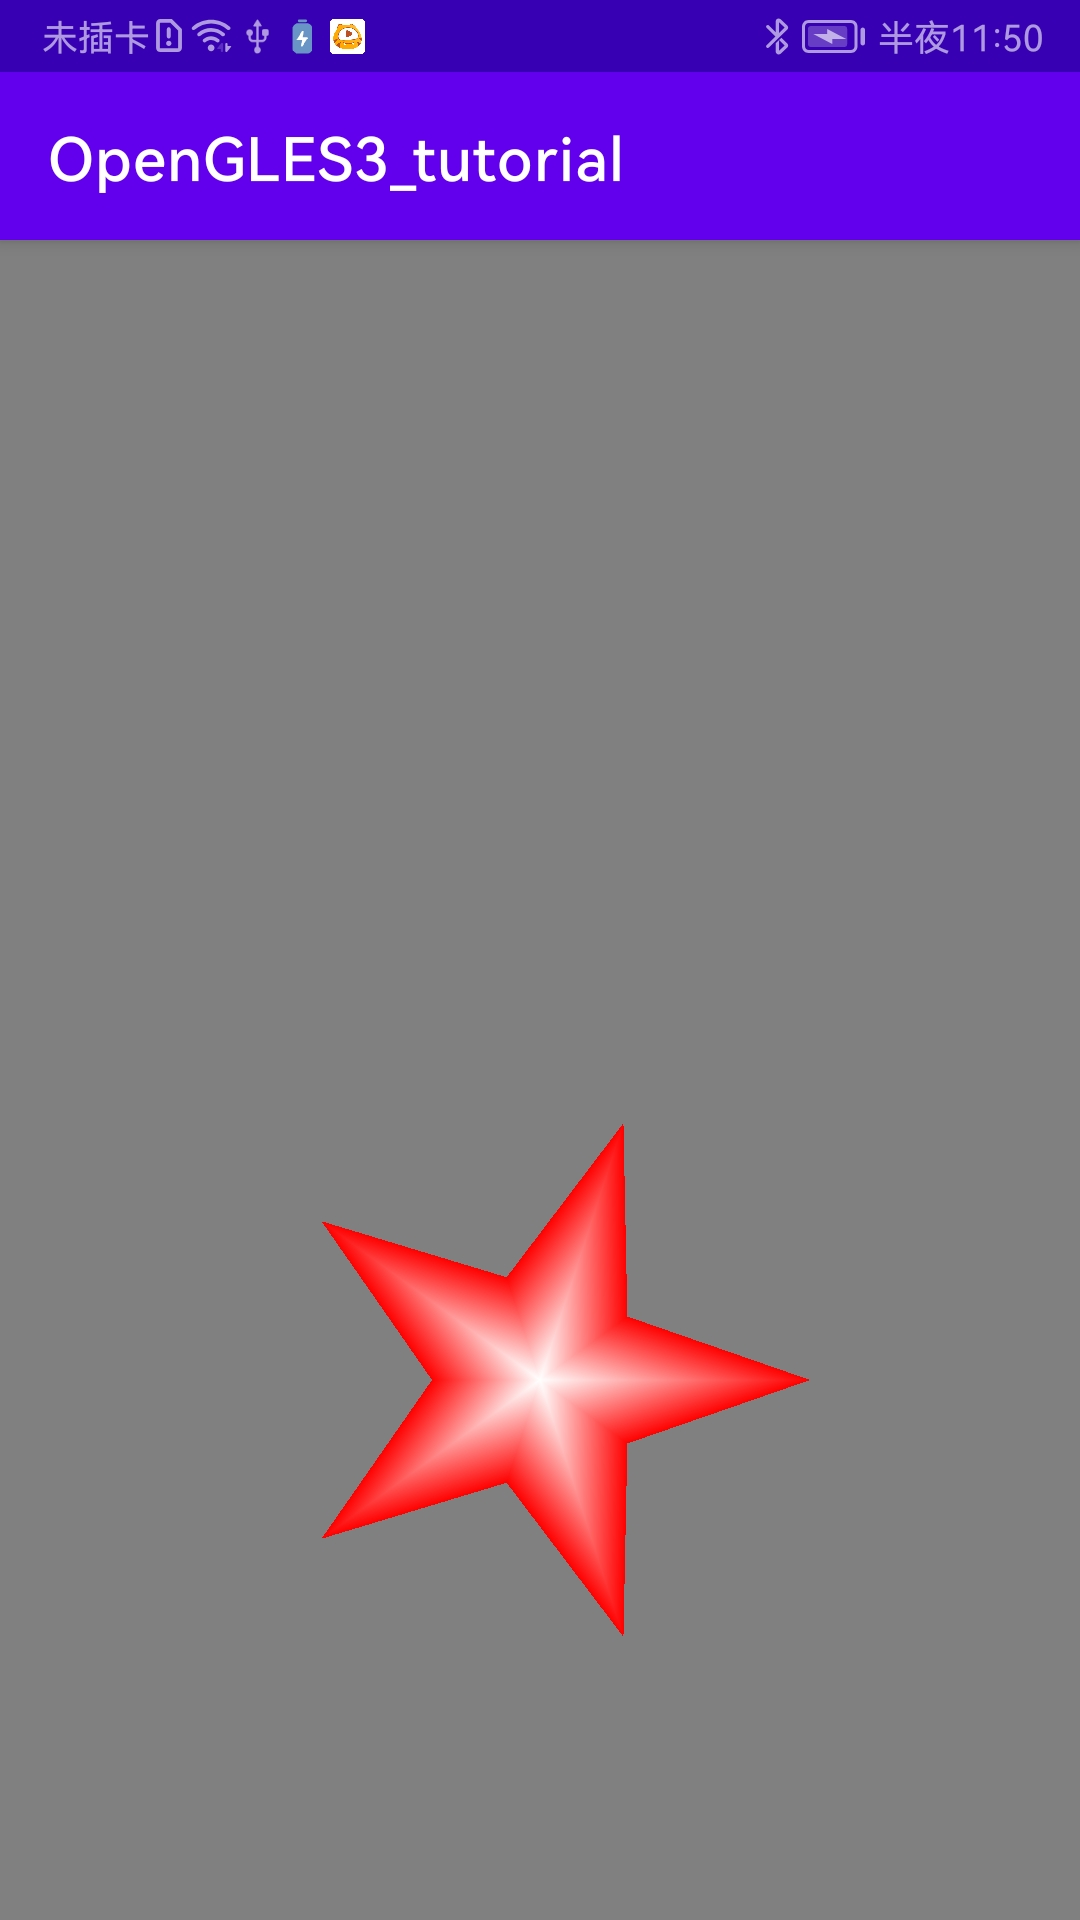
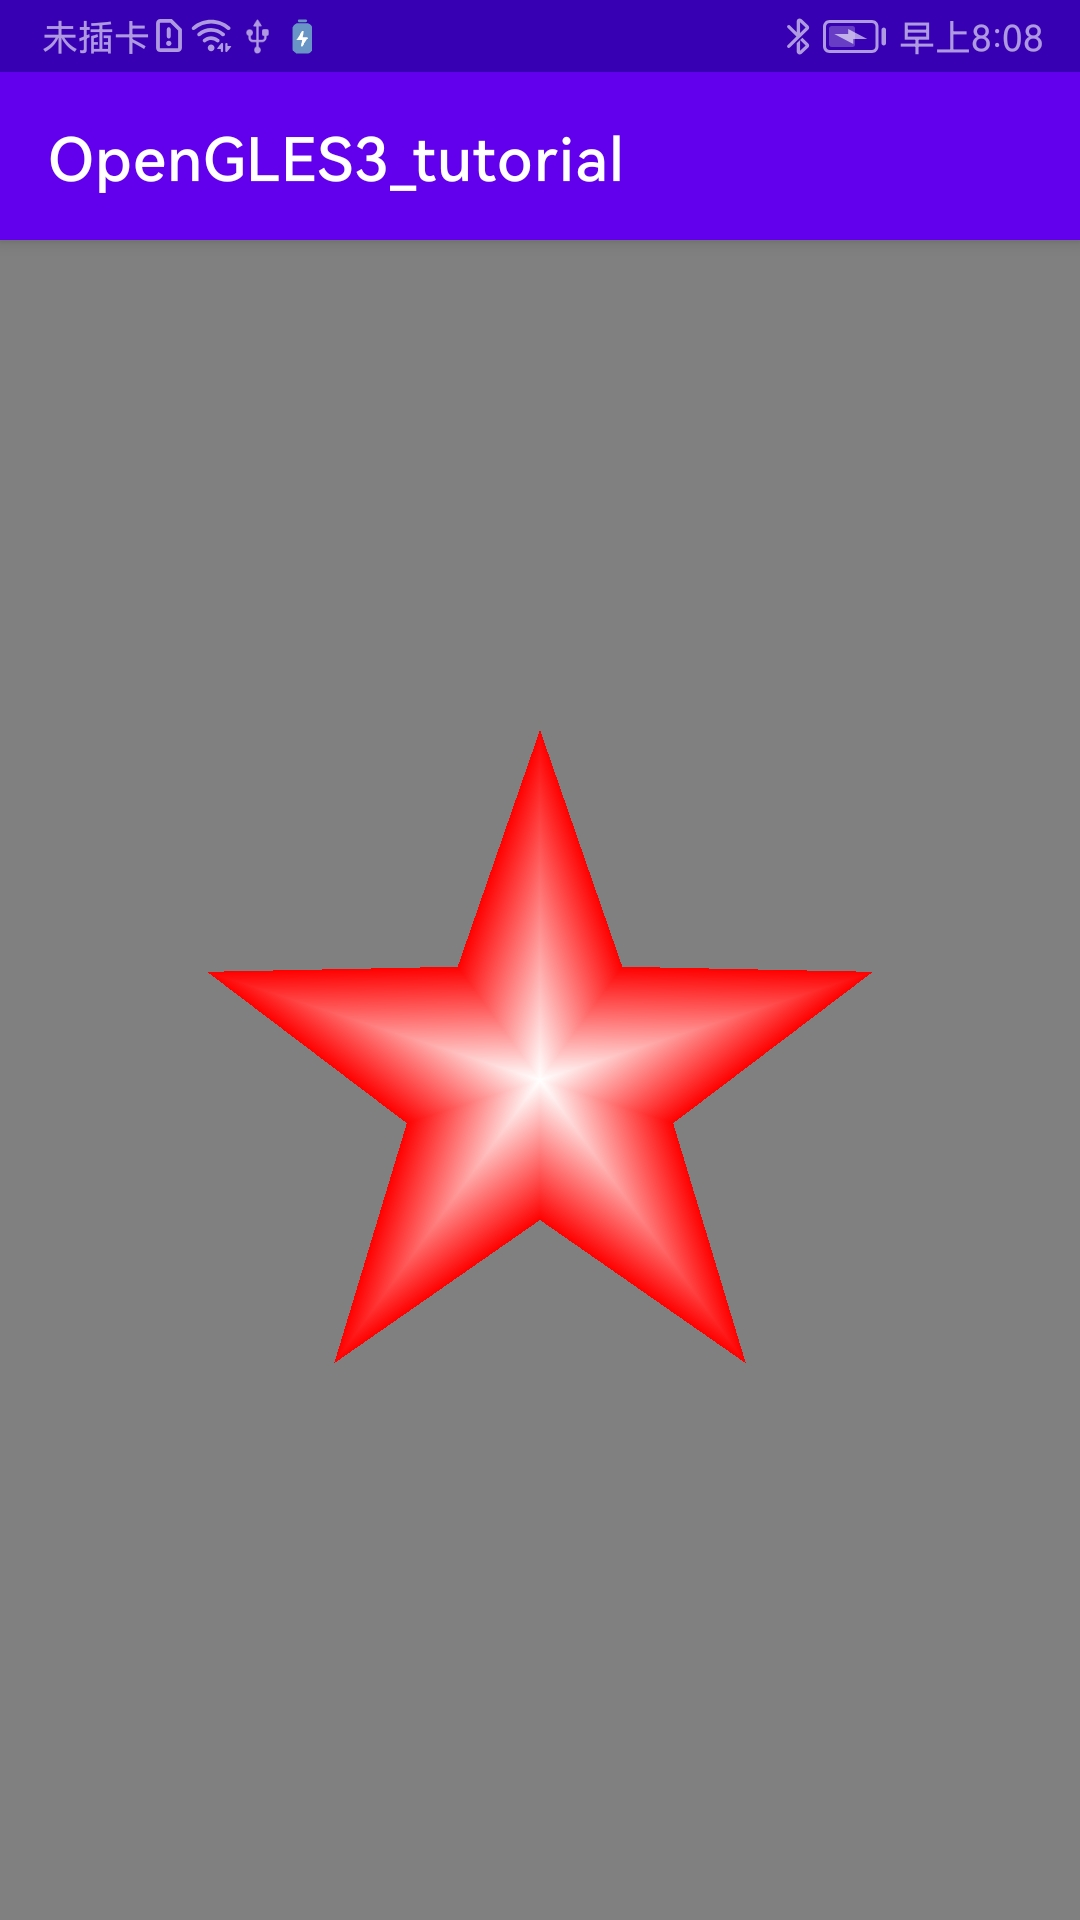
更新效果图

Changed region(s): [[0.1833, 0.375, 0.7944, 0.8438], [0.7028, 0.0, 0.9472, 0.0312], [0.3056, 0.0, 0.3361, 0.0312]]

diff --git a/star/src/main/java/com/example/opengles/tutorial/MyGlSurfaceView.kt b/star/src/main/java/com/example/opengles/tutorial/MyGlSurfaceView.kt
@@ -3,6 +3,7 @@ package com.example.opengles.tutorial
 import android.content.Context
 import android.opengl.GLES30
 import android.opengl.GLSurfaceView
+import com.example.opengles.common.MatrixState
 import javax.microedition.khronos.egl.EGLConfig
 import javax.microedition.khronos.opengles.GL10
 import kotlin.math.min
@@ -26,9 +27,10 @@ class MyGlSurfaceView(context: Context) : GLSurfaceView(context) {
         }
 
         override fun onSurfaceChanged(gl: GL10?, width: Int, height: Int) {
-            // 暂时没有引入变换矩阵，为了让图不变形，我们先手动将viewport设置成正方形
-            val minSize = min(width, height)
-            GLES30.glViewport(0, 0, minSize, minSize)
+            GLES30.glViewport(0, 0, width, height)
+            val ratio = width.toFloat() / height
+            MatrixState.setProjectFrustum(-ratio, ratio, -1f, 1f, 1f, 10f)
+            MatrixState.setCamera(0f, 0f, 2f, 0f, 0f, 0f, 0f, 1f, 0f)
         }
 
         override fun onDrawFrame(gl: GL10?) {

diff --git a/star/src/main/java/com/example/opengles/tutorial/Star.kt b/star/src/main/java/com/example/opengles/tutorial/Star.kt
@@ -2,6 +2,7 @@ package com.example.opengles.tutorial
 
 import android.content.Context
 import android.opengl.GLES30
+import com.example.opengles.common.MatrixState
 import com.example.opengles.common.ShaderUtil
 import java.nio.ByteBuffer
 import java.nio.ByteOrder
@@ -100,6 +101,11 @@ class Star(
     fun drawSelf() {
         GLES30.glUseProgram(program)
 
+        MatrixState.setInitialState()
+        MatrixState.rotate(90f, 0f, 0f, 1f)
+        MatrixState.translate(0f, 0f, 0.8f)
+
+        GLES30.glUniformMatrix4fv(0, 1, false, MatrixState.getFinalMatrix(), 0)
         GLES30.glVertexAttribPointer(0, 2, GLES30.GL_FLOAT, false, 0, vertexBuffer)
         GLES30.glVertexAttribPointer(1, 4, GLES30.GL_FLOAT, false, 0, colorBuffer)
         GLES30.glEnableVertexAttribArray(0)
